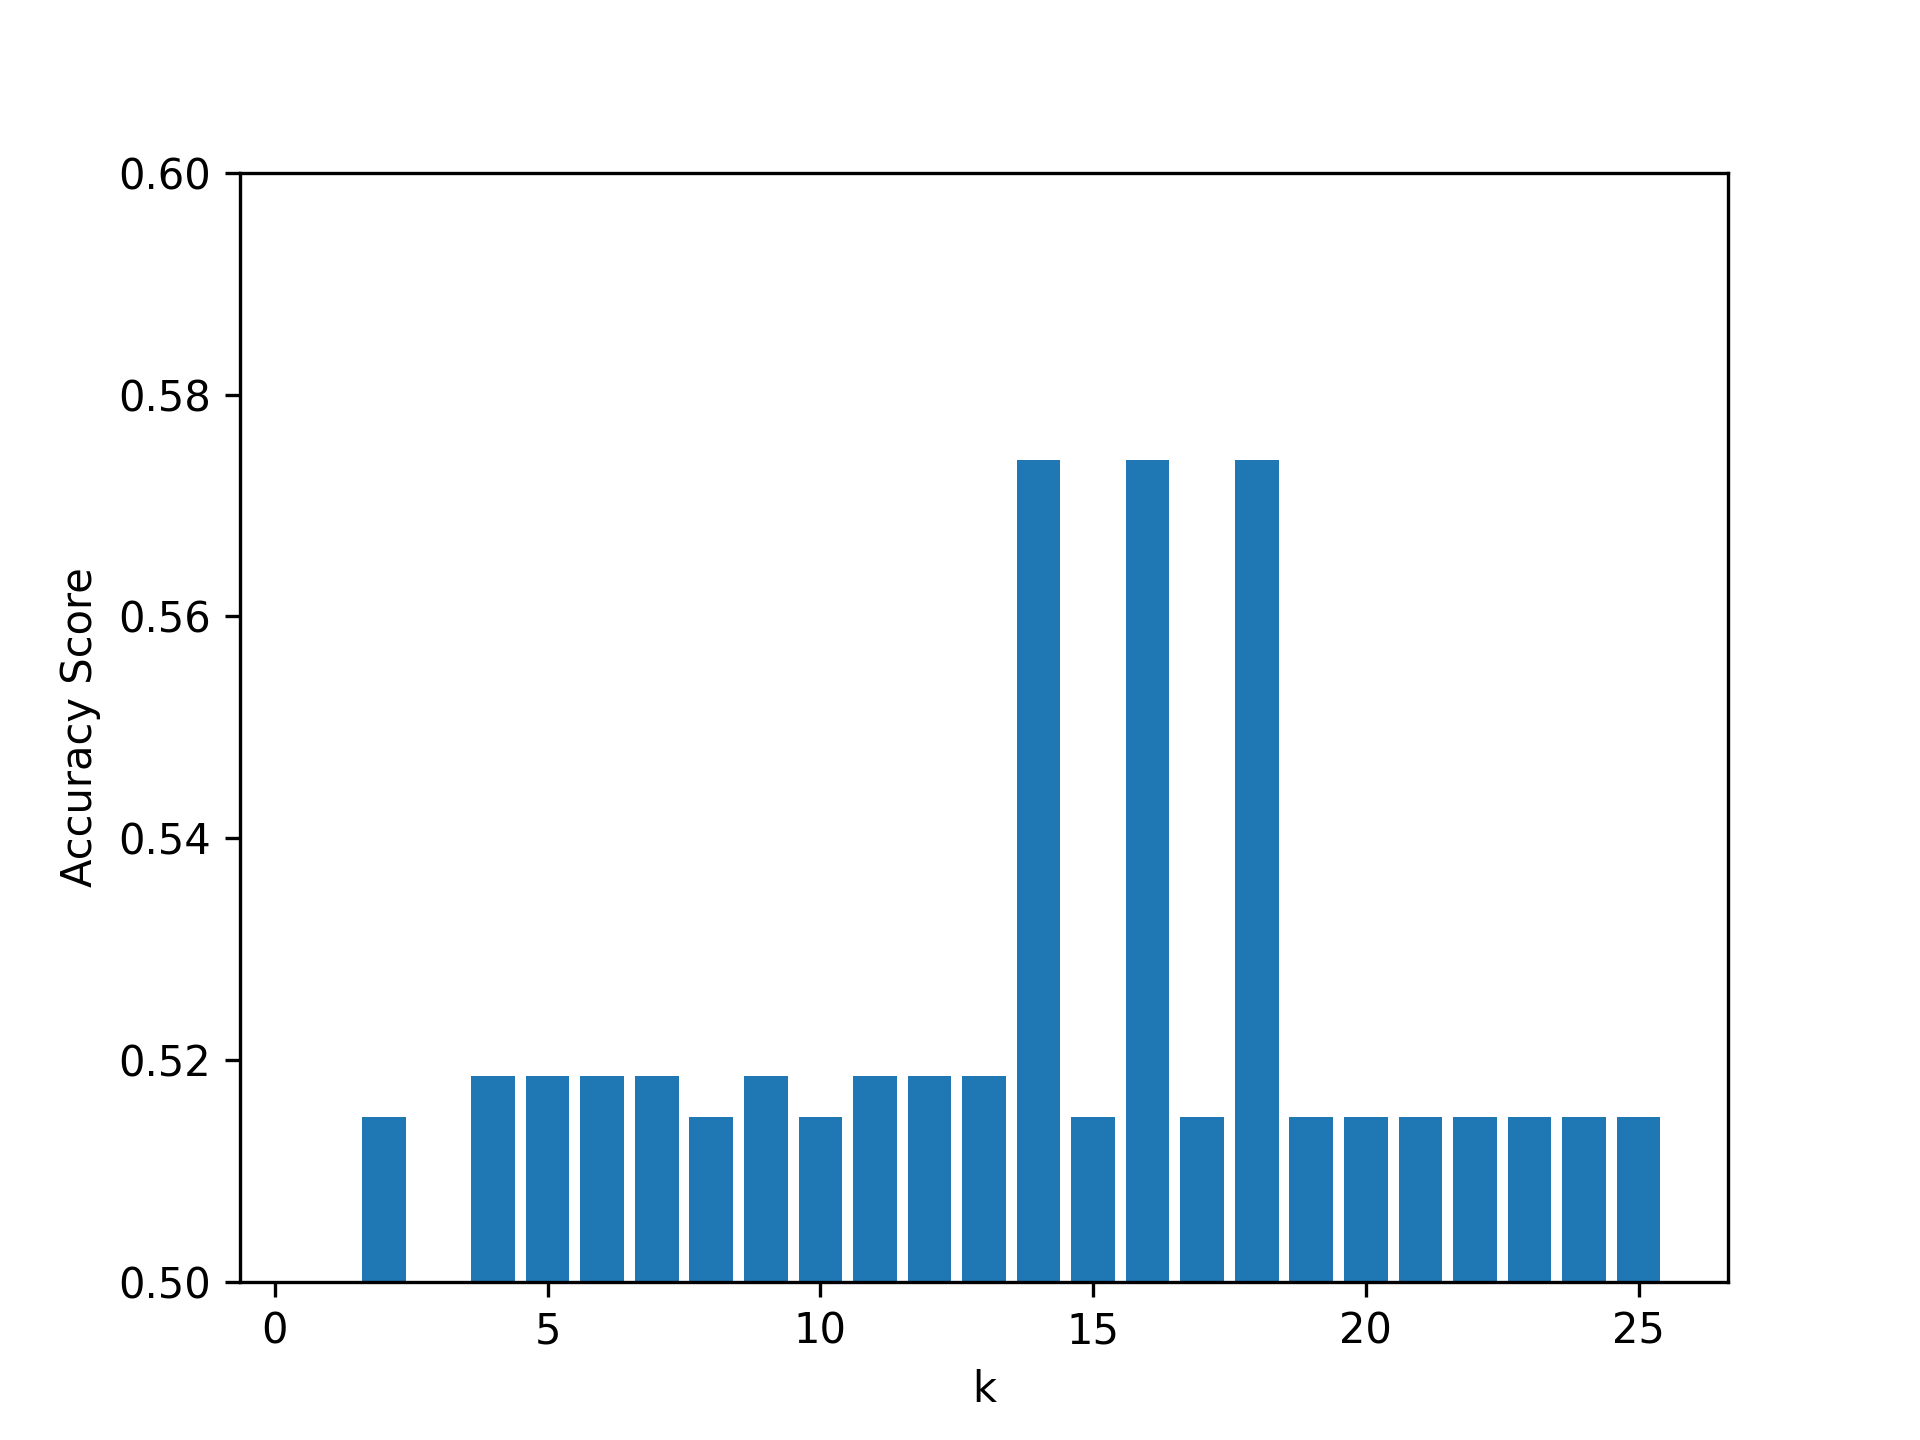
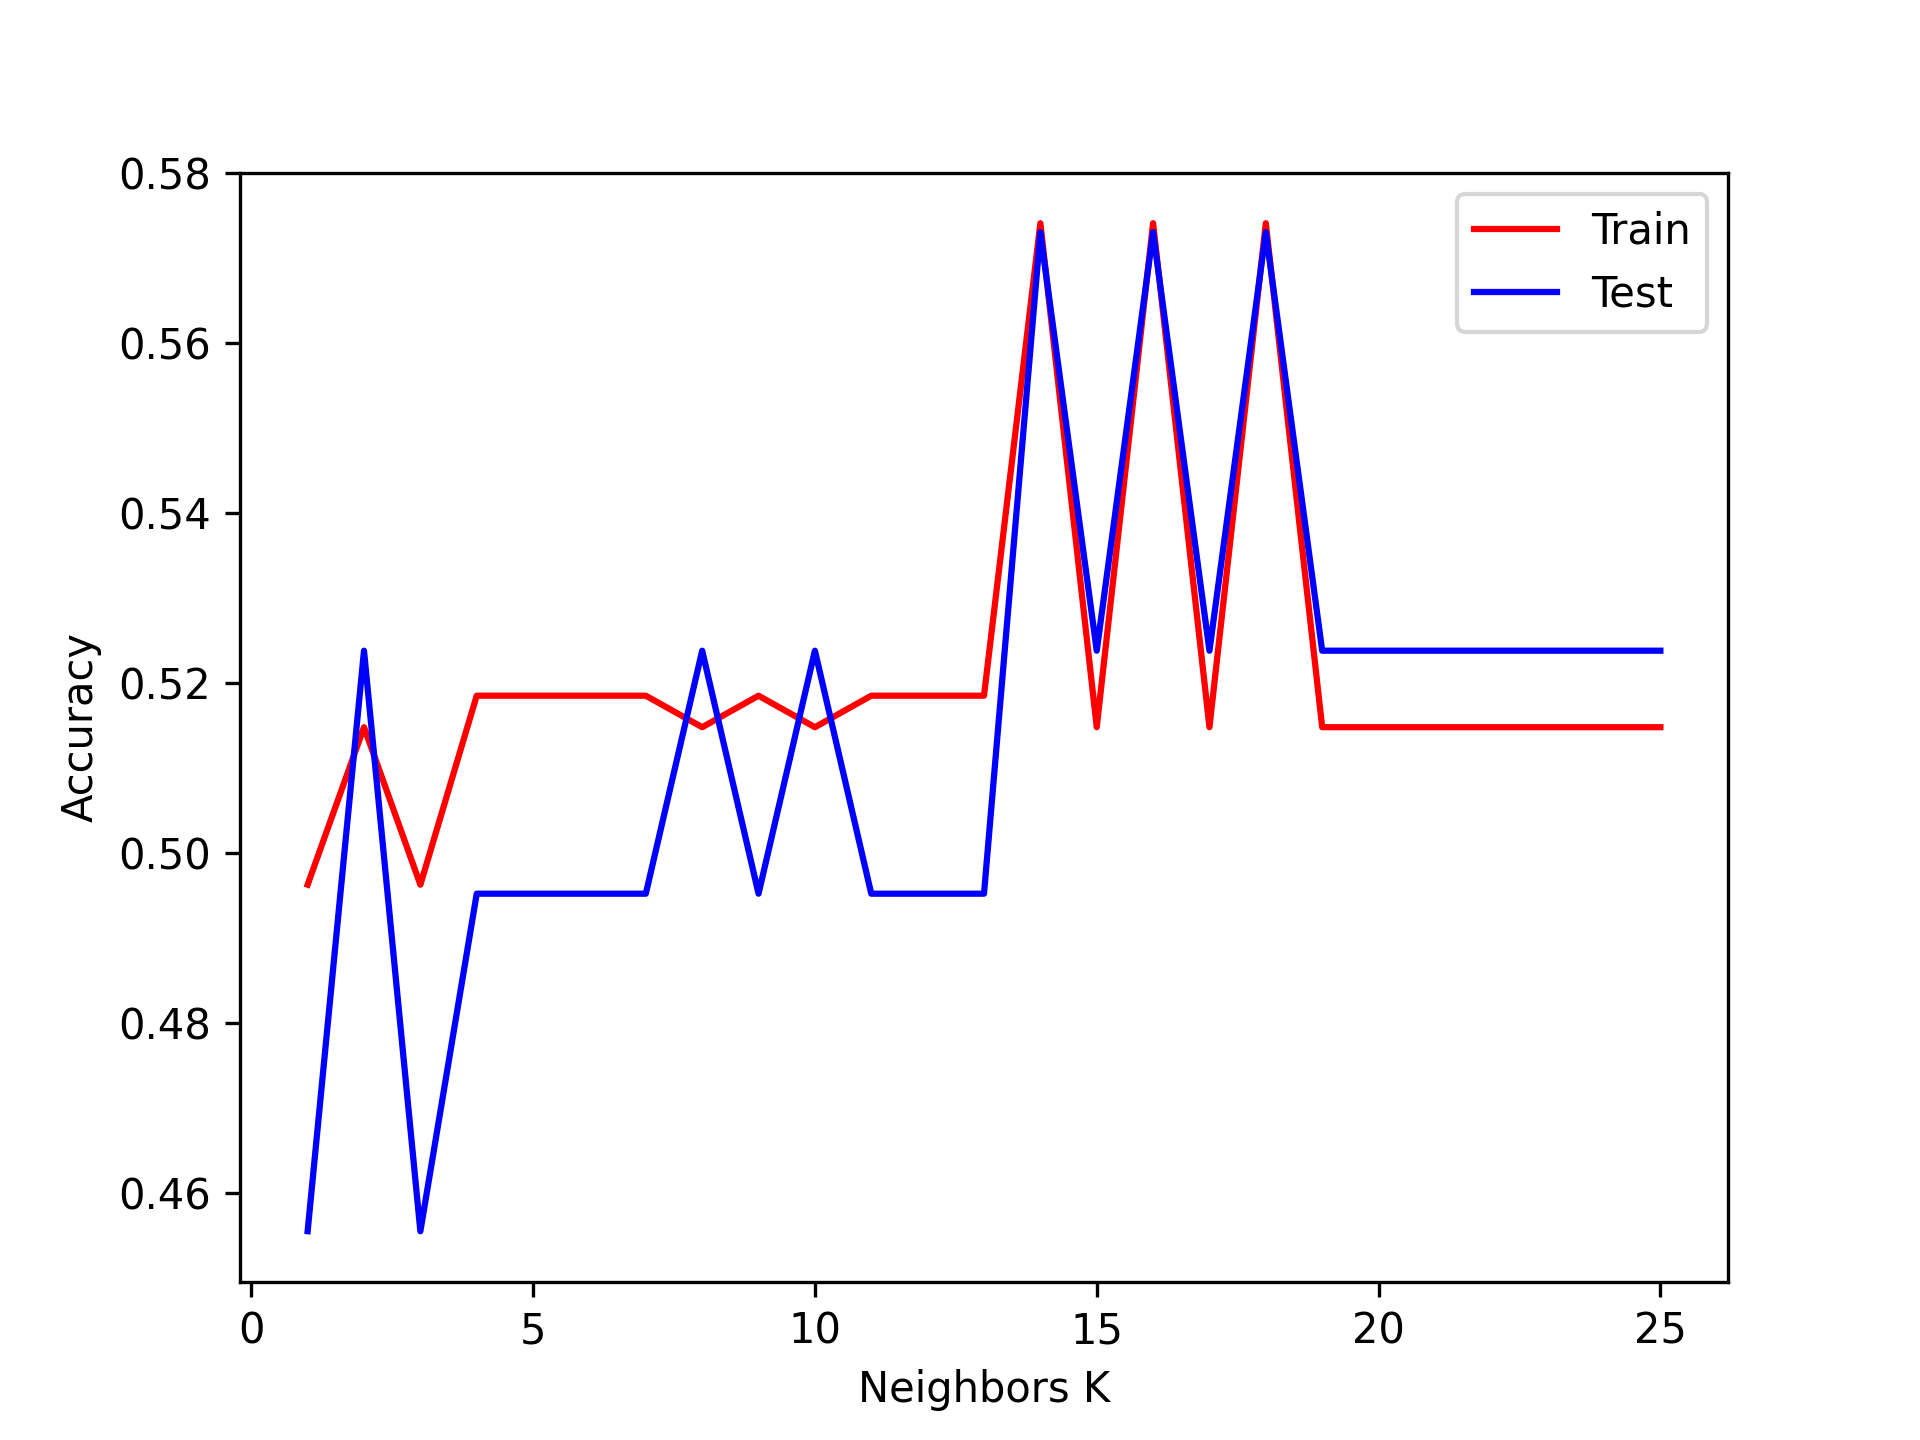
Add files via upload

diff --git a/Wk2/IE517_HW2_iris.py b/Wk2/IE517_HW2_iris.py
@@ -168,18 +168,21 @@ plt.savefig('KNN_iris.png', dpi=300)
 plt.show()
 
 #Find optimized K for KNN
-k_range=range(1,26)
-scores=[]
+k_range = range(1, 26)
+scores = []
+scores_tst = []
 for k in k_range:
-    knn=KNeighborsClassifier(n_neighbors=k)
-    knn.fit(X_train,y_train)
-    y_pred=knn.predict(X_test)
-    scores.append(accuracy_score(y_test,y_pred))
+    knn = KNeighborsClassifier(n_neighbors=k)
+    knn.fit(X_train, y_train)
+    y_pred = knn.predict(X_test)
+    scores.append(accuracy_score(y_test, y_pred))
+    scores_tst.append(knn.score(X_train, y_train))
 
-plt.bar(k_range,scores)
-plt.xlabel('k')
-plt.ylabel('Accuracy Score')
-plt.ylim(0.95,1)
+plt.plot(range(1, 26), scores, 'r-', label="Train")
+plt.plot(range(1, 26), scores_tst, 'b-', label='Test')
+plt.xlabel('Neighbors K')
+plt.ylabel('Accuracy')
+plt.legend()
 plt.savefig('KNN_OptK_iris.png',dpi=300)
 plt.show()
 

diff --git a/Wk2/IE517_HW2_TS.py b/Wk2/IE517_HW2_TS.py
@@ -169,16 +169,20 @@ plt.show()
 #Find optimized K for KNN
 k_range=range(1,26)
 scores=[]
+scores_tst=[]
 for k in k_range:
     knn=KNeighborsClassifier(n_neighbors=k)
     knn.fit(X_train,y_train)
     y_pred=knn.predict(X_test)
     scores.append(accuracy_score(y_test,y_pred))
+    scores_tst.append(knn.score(X_train,y_train))
 
-plt.bar(k_range,scores)
-plt.xlabel('k')
-plt.ylabel('Accuracy Score')
-plt.ylim(0.5,0.6)
+
+plt.plot(range(1,26),scores,'r-',label="Train")
+plt.plot(range(1,26),scores_tst,'b-',label='Test')
+plt.xlabel('Neighbors K')
+plt.ylabel('Accuracy')
+plt.legend()
 plt.savefig('KNN_OptK_TS.png',dpi=300)
 plt.show()
 
